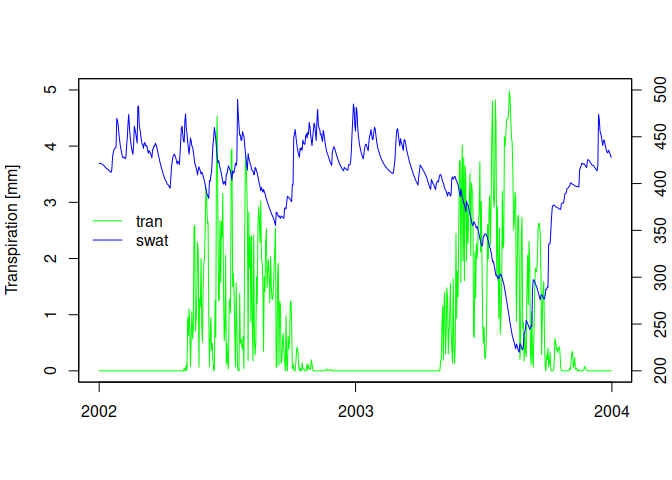
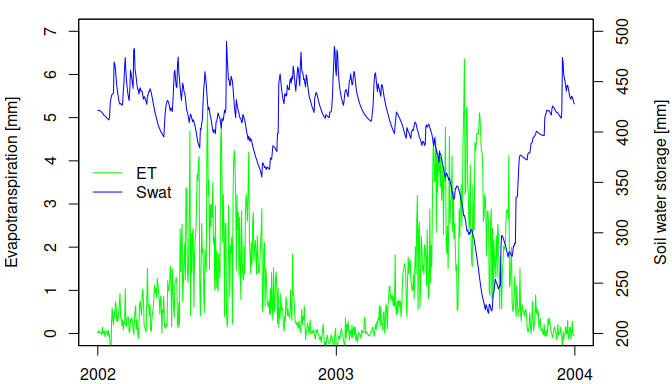
version 0.4.4

diff --git a/src/skeleton.c b/src/skeleton.c
@@ -6,7 +6,7 @@
 
 void F77_NAME(s_brook90_f)(double *siteparam, double *climveg, double *param, double *pdur,
     double *soil_materials, double *soil_nodes, double *precdat,
-    int *pr, int *error, int *timer, double *output_day, double *output_layer);
+    int *pr, int *timer, int *error, double *output_day, double *output_layer);
 
 extern SEXP s_brook90_c(SEXP siteparam, SEXP climveg, SEXP param, SEXP pdur, SEXP soil_materials,
     SEXP soil_nodes, SEXP precdat, SEXP pr, SEXP timer, SEXP n_m, SEXP n_l){
@@ -29,7 +29,7 @@ extern SEXP s_brook90_c(SEXP siteparam, SEXP climveg, SEXP param, SEXP pdur, SEX
     setAttrib( output_layer, R_DimSymbol, dims);
 
     F77_CALL(s_brook90_f)(REAL(siteparam), REAL(climveg), REAL(param), REAL(pdur), REAL(soil_materials),
-        REAL(soil_nodes), REAL(precdat), LOGICAL(pr), LOGICAL(timer), INTEGER(error), REAL(output_day), REAL(output_layer));
+        REAL(soil_nodes), REAL(precdat), INTEGER(pr), INTEGER(timer), INTEGER(error), REAL(output_day), REAL(output_layer));
 
     SEXP out_full = PROTECT( allocVector(VECSXP, 3) );
     SET_VECTOR_ELT(out_full, 0, error);

diff --git a/src/SWCHEK.h b/src/SWCHEK.h
@@ -2,7 +2,7 @@
 !     test for SWATI(I) < 0 or > SWATMX(I)
       IF (SWATI(I) .LE. 0.0d0) THEN
         error = 6
-        if ( pr ) then
+        if ( pr .EQ. 1 ) then
           call intpr("STOP: negative soil water content in layer, year, month, day", -1, &
             (/ I, YEAR, MONTH, DOM/),4)
           call intpr("Examine output and parameters to determine the cause!", -1,(/ 0/),0)
@@ -11,7 +11,7 @@
       ELSEIF (SWATI(I) .GT. SWATMX(I)) THEN
         IF (SWATI(I) .GT. SWATMX(I) + .000010d0) THEN
         error = 7
-          if ( pr ) then
+          if ( pr .EQ. 1 ) then
             call intpr("STOP: soil water storage above capacity in layer, year, month, day", -1, &
              (/ I, YEAR, MONTH, DOM/),4)
             call intpr("Examine output and parameters to determine the cause!", -1,(/ 0/),0)

diff --git a/src/VARDCL.h b/src/VARDCL.h
@@ -171,7 +171,7 @@ real(kind=8) :: NTFLI(ML)       ! net flow rate into layer, mm/d
 real(kind=8) :: NTFLPI(ML), NTFLDI(ML) !, NTFLMI(ML), NTFLYI(ML)
 ! integer :: OP(10,5)             ! * output file selections
 real(kind=8) :: ParMat(MPar,MMat) ! hydraulic parameters for material
-real(kind=8) :: Par(MPar,ML)    ! hydraulic parameters for layer
+real(kind=8), allocatable, dimension(:,:) :: Par    ! hydraulic parameters for layer
 real(kind=8) :: PINT            ! average potential interception for day, mm/d
 real(kind=8) :: PINTD           !, PINTM, PINTY, PINTVP ! potential interception, mm
 real(kind=8) :: PIR(2)          ! potential interception rate for daytime or night, mm/d

diff --git a/src/PREINCHK.h b/src/PREINCHK.h
@@ -2,7 +2,7 @@
 !     check date order
       IF (YEAR .NE. YY .OR. MONTH .NE. MM .OR. DOM .NE. DD) THEN
          error = 4
-         if ( pr ) then
+         if ( pr .EQ. 1 ) then
            call intpr("STOP - inconsitent dates in precipitation input - expected (yr,month,day)", -1, &
               (/ YEAR, MONTH, DOM/),3)
            call intpr("but got", -1, (/ YY, MM, DD/),3)
@@ -11,7 +11,7 @@
       END IF
       IF (II .NE. N) THEN
          error = 5
-         if (pr) then
+         if (pr .EQ. 1) then
           call intpr("STOP: PRFILE error - wrong precipitation interval value at (yr,month,day)!", -1, &
              (/ YY, MM, DD/),3)
          !STOP

diff --git a/src/PFILE.h b/src/PFILE.h
@@ -98,7 +98,7 @@
     IMODEL = INT( param( 69 ) )
 
     if ( (NLAYER .GT. ML) .OR. (ILAYER .GT. NLAYER) .OR. (QLAYER .GT. NLAYER)) then
-        if ( pr ) call intpr('Failure of QLAYER and ILAYER .LE. NLAYER .LE. ML',-1,(/ 0/),0)
+        if ( pr .EQ. 1) call intpr('Failure of QLAYER and ILAYER .LE. NLAYER .LE. ML',-1,(/ 0/),0)
         go to 999
     end if
 

diff --git a/README.md b/README.md
@@ -10,6 +10,11 @@ state and is being actively
 developed.](https://www.repostatus.org/badges/latest/active.svg)](https://www.repostatus.org/#active)
 [![Travis build
 status](https://travis-ci.com/pschmidtwalter/LWFBrook90R.svg?branch=master)](https://travis-ci.com/pschmidtwalter/LWFBrook90R)
+[![CRAN](https://www.r-pkg.org/badges/version/LWFBrook90R)](https://cran.r-project.org/package=LWFBrook90R)
+[![](https://cranlogs.r-pkg.org/badges/grand-total/LWFBrook90R)](https://cran.r-project.org/package=LWFBrook90R)
+[![License: GPL
+v3](https://img.shields.io/badge/License-GPL%20v3-blue.svg)](https://www.gnu.org/licenses/gpl-3.0)
+[![DOI](https://zenodo.org/badge/DOI/10.5281/zenodo.3760298.svg)](https://doi.org/10.5281/zenodo.3760298)
 <!-- badges: end -->
 
 `LWFBroo90R` provides an implementation of the Soil Vegetation
@@ -66,28 +71,25 @@ lwfb90_res <- run_LWFB90(options_b90 = opts,
                          param_b90 = parms,
                          climate = slb1_meteo,
                          soil = soil)
-
-# View structure of result list object
-str(lwfb90_res, max.level = 1)
 ```
 
 Plot results
 
 ``` r
-dates <- with(lwfb90_res$daily_output, as.Date(paste(yr, mo, da, sep = "-")))
-
 oldpar <- par(no.readonly = TRUE)
-plot(dates,lwfb90_res$daily_output$tran, 
-     col = "green", type = 'l', ylim = c(0,5),
-     xlab = "", ylab = "Transpiration [mm]")
+
+dates <- with(lwfb90_res$daily_output, as.Date(paste(yr, mo, da, sep = "-")))
+par(mar = c(2,4.1,1,4.1))
+plot(dates,lwfb90_res$daily_output$evap, 
+     col = "green", type = 'l', ylim = c(0,7),
+     xlab = "", ylab = "Evapotranspiration [mm]")
 par(new=TRUE)
 plot(dates, lwfb90_res$daily_output$swat, type = "l", 
      col = "blue", ylim = c(200,500), 
      yaxt = "n", xaxt = "n", ylab = "", xlab = "")
-
 axis(4,pretty(c(200,500)))
 mtext("Soil water storage [mm]", side = 4, line =3)
-legend("left", legend = c("tran", "swat"),
+legend("left", legend = c("ET", "Swat"),
        col = c("green", "blue"),  lty = 1, 
        bty = "n")
 ```
@@ -134,7 +136,7 @@ was adapted and extended to control this interface function.
 
 GPL-3 for all Fortran and R code. `brook90r` has GPL-3, while
 LWF-Brook90 was without license until recently. Lothar Zimmermann and
-Stephan Raspe (LWF), as well as all Fortran contributors agreed to
+Stephan Raspe (LWF), and all previous Fortran contributors agreed to
 assign GPL-3 to the Fortran code.
 
 ## References

diff --git a/NEWS.md b/NEWS.md
@@ -1,5 +1,9 @@
 # News for the LWFBrook90R-package
 
+## Version 0.4.4. (2021-02-24)
+
+- Fixed LTO installation warning on Fedora Linux
+
 ## Version 0.4.3 (2021-02-09)
 
 - Minor changes to fulfill CRAN publication requirements
